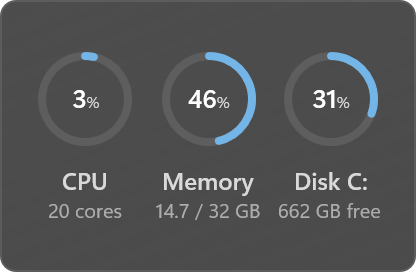
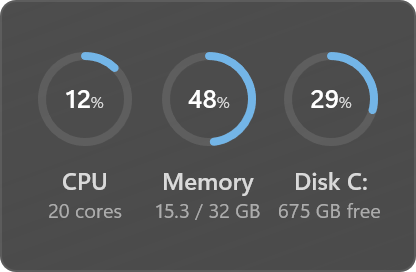
Use the renderer's textShadow for the no-background look
Bare widgets set an inherited textShadow on the card (a dark blur
under light text, a light glow under dark text) instead of drawing
offset text copies. Previews re-rendered.

Claude-Session: https://claude.ai/code/session_01TQxuuqy7Zop3gq1fjvXepm

diff --git a/src/shared/ui.tsx b/src/shared/ui.tsx
@@ -1,5 +1,5 @@
 // Shared look for the essentials widgets: palette, surface, legible text, hover layer.
-import { createSignal, For, type JSX } from "solid-js";
+import { createSignal, type JSX } from "solid-js";
 import { localeInfo, useAppearance, type Style } from "@vitrine/sdk";
 
 export const FONT_DISPLAY = "Segoe UI Variable Display";
@@ -168,6 +168,7 @@ export function Card(props: { p: Palette; style?: Style; children?: JSX.Element 
         color: props.p.text,
         fontFamily: FONT_TEXT,
         overflow: props.p.bare ? "visible" : "hidden",
+        textShadow: props.p.bare ? textShadowOf(props.p) : "none",
         ...props.style,
       }}
     >
@@ -179,37 +180,16 @@ export function Card(props: { p: Palette; style?: Style; children?: JSX.Element 
 /** `rgba()` of the palette's shadow tone. */
 export const shadeOf = (p: Palette, a: number) => `rgba(${p.shade}, ${a})`;
 
-interface Offset {
-  x: number;
-  y: number;
-  a: number;
-}
-
-/**
- * Shadow copies for a text of `size` px. The renderer has no text-shadow, so a thin outline
- * (four 1-unit copies) plus a soft drop is approximated with offset copies under the text.
- * Dark text on light wallpapers gets a lighter, symmetric glow instead of a drop.
- */
-function offsets(size: number, lite: boolean, darkText: boolean): Offset[] {
-  const u = size >= 40 ? 1.5 : 1;
-  const k = darkText ? 0.75 : 1;
-  const ring = [
-    { x: u, y: 0, a: 0.28 * k },
-    { x: -u, y: 0, a: 0.28 * k },
-    { x: 0, y: -u, a: 0.24 * k },
-    { x: 0, y: u, a: 0.34 * k },
-  ];
-  const drop = darkText ? [] : [{ x: 0, y: u * 2, a: 0.22 }];
-  return lite && darkText ? ring.slice(0, 2).concat(ring[3]) : [...ring, ...drop];
-}
+/** The legibility shadow for bare widgets: a dark blur under light text, a light glow under dark text. */
+export const textShadowOf = (p: Palette) =>
+  p.dark ? `0 1px 4px ${shadeOf(p, 0.8)}` : `0 0 6px ${shadeOf(p, 0.75)}`;
 
 /** Colour helper handed to `Txt` content: identity for the text, the shadow tone for copies. */
 export type Tint = (color: string) => string;
 
 /**
- * Text that stays legible on any wallpaper. In card mode it is plain text; when the palette
- * is bare it draws shadow copies beneath. `children` receives a tint function: wrap every
- * span colour in it so the copies are painted in the shadow tone.
+ * Text that stays legible on any wallpaper. The shadow itself is inherited from the bare
+ * Card (`textShadow`); `children` receives a tint function kept for span colours.
  */
 export function Txt(props: {
   p: Palette;
@@ -218,27 +198,8 @@ export function Txt(props: {
   lite?: boolean;
   children: (tint: Tint) => JSX.Element;
 }) {
-  const size = () => (typeof props.style.fontSize === "number" ? props.style.fontSize : 14);
   return (
     <view style={{ flexDirection: "column", ...props.box }}>
-      {props.p.bare ? (
-        <For each={offsets(size(), !!props.lite, !props.p.dark)}>
-          {(o) => (
-            <text
-              style={{
-                ...props.style,
-                position: "absolute",
-                left: o.x,
-                top: o.y,
-                width: "100%",
-                color: shadeOf(props.p, o.a),
-              }}
-            >
-              {props.children(() => shadeOf(props.p, o.a))}
-            </text>
-          )}
-        </For>
-      ) : null}
       <text style={props.style}>{props.children((c) => c)}</text>
     </view>
   );
